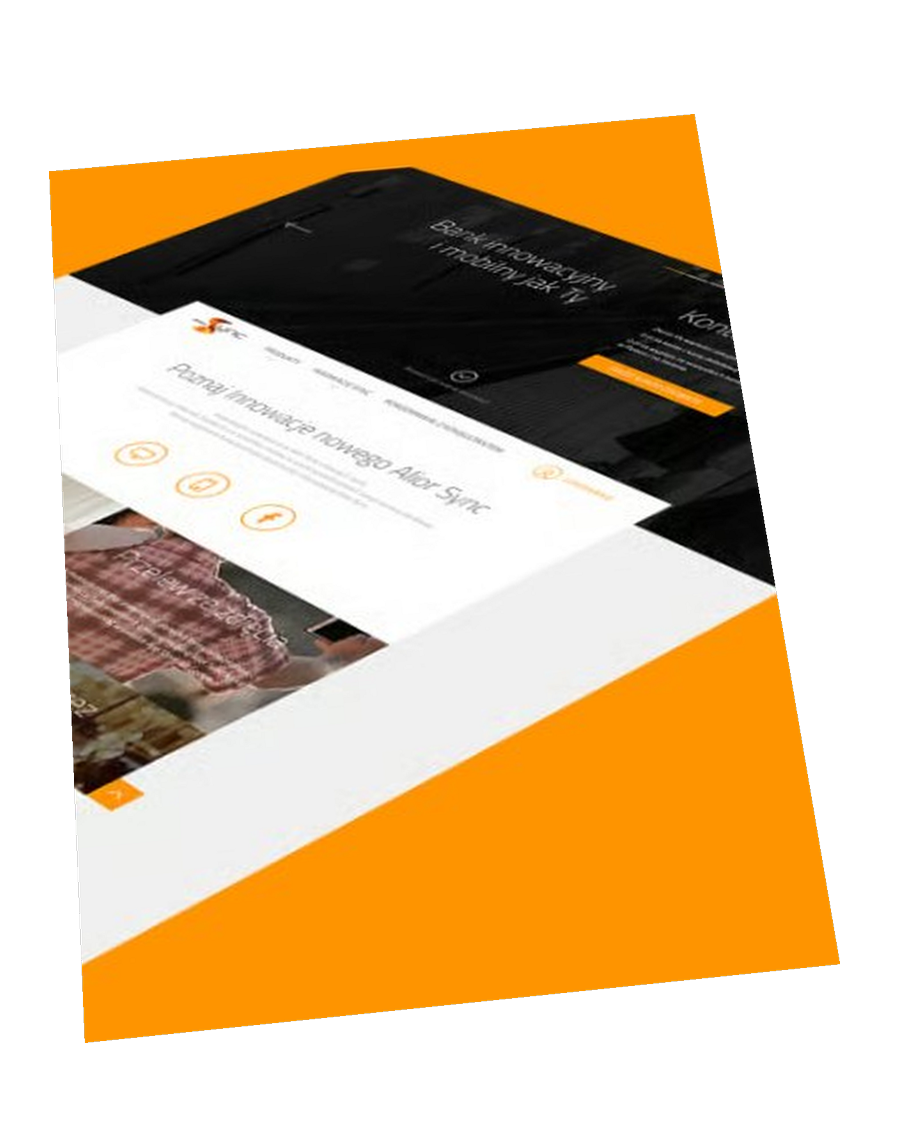
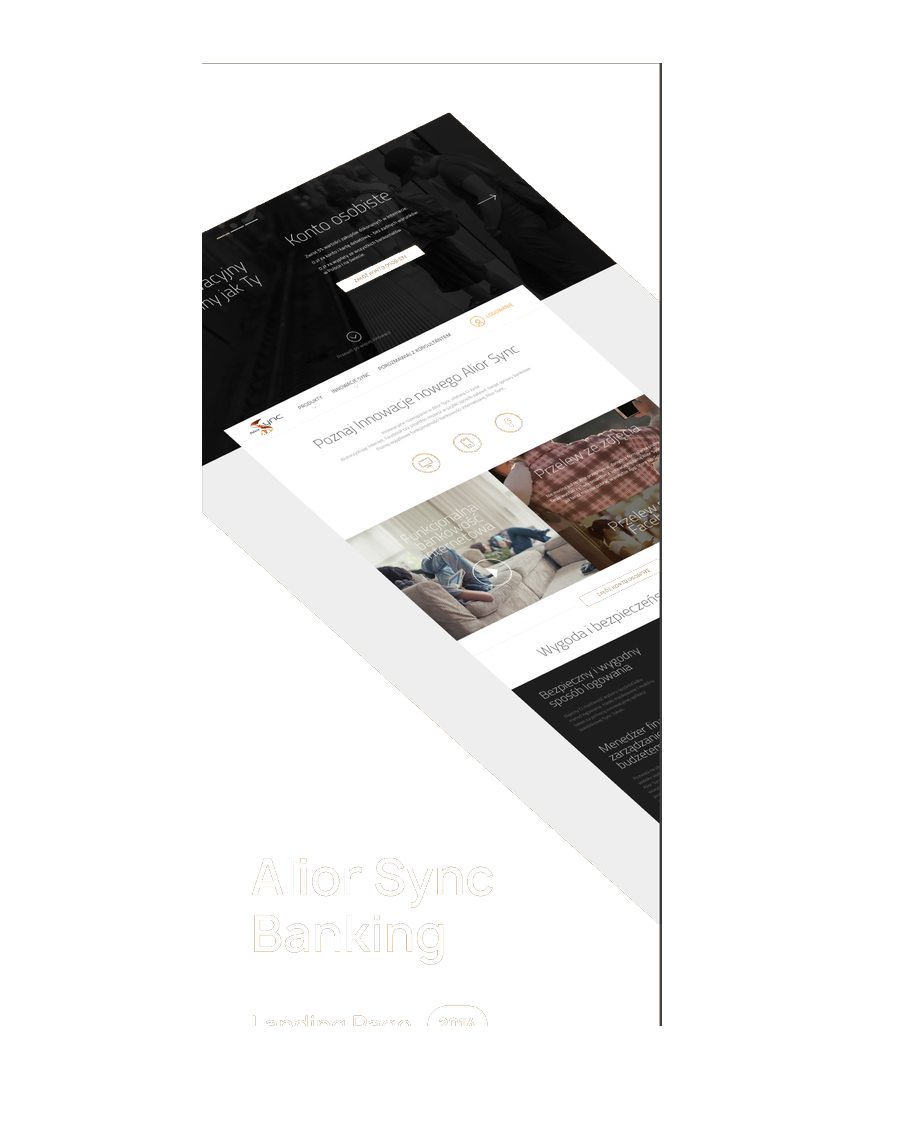
content(alior): use alior.png source for skew cover asset
Rebuild alior-skew from the new alior.png mockup and bump cache keys.

diff --git a/content/portfolio.js b/content/portfolio.js
@@ -1,1 +1,1 @@
-window.PORTFOLIO = {"projects":[{"id":"transimeksa","category":"desktop","title":"Transimeksa\nLogistic\nSolutions","label":"Desktop website","color":"#0f5d4f","image":"images/transimeksa.jpg"},{"id":"irshad","category":"desktop","title":"Irshad\nPetroleum","label":"Desktop website","color":"#1f4e88","image":"images/irshad.jpg"},{"id":"dynamite","category":"desktop","title":"Dynamite\nStudio","label":"Desktop website","color":"#ec413a","image":"images/Sysdyne-NewOrder-skew.png","mediaVersion":"20251108f"},{"id":"alior","category":"desktop","title":"Alior\nSync\nBanking","label":"Landing Page","year":"2014","color":"#fe9400","image":"images/alior-skew.png","mediaVersion":"20251109a"},{"id":"utilimarc","category":"desktop","title":"Utilimarc\nTelematics","label":"SaaS Dashboard","color":"#566167","image":"images/utilimarc-skew.png","mediaVersion":"20251108g"},{"id":"hello","category":"desktop","title":"Hello","label":"Desktop Dashboard","color":"#b62b88","image":"images/hello.jpg"},{"id":"tallinder","category":"desktop","title":"Tallinder","label":"Desktop","color":"#222222","image":"images/tallinder.jpg"},{"id":"oticon","category":"mobile","title":"Oticon\nRemoteCare","label":"Mobile App","color":"#c2a88d","image":"images/oticon.jpg"},{"id":"ponto","category":"mobile","title":"Ponto Trial\nCampanion","label":"Mobile App","color":"#6a6a68","image":"images/ponto.jpg"},{"id":"hearing-fitness","category":"mobile","title":"Hearing\nFitness","label":"Tablet App","color":"#1e2428","image":"images/hearing-fitness.jpg"},{"id":"bahs","category":"mobile","title":"BAHS App","label":"Mobile App","color":"#f07228","image":"images/bahs.jpg"},{"id":"sysdyne-illustrations","category":"motion","title":"Sysdyne\nIllustrations","label":"Motion","color":"#e5642c","image":"images/sysdyne-illustrations.png","mediaVersion":"20251108d"}]};
+window.PORTFOLIO = {"projects":[{"id":"transimeksa","category":"desktop","title":"Transimeksa\nLogistic\nSolutions","label":"Desktop website","color":"#0f5d4f","image":"images/transimeksa.jpg"},{"id":"irshad","category":"desktop","title":"Irshad\nPetroleum","label":"Desktop website","color":"#1f4e88","image":"images/irshad.jpg"},{"id":"dynamite","category":"desktop","title":"Dynamite\nStudio","label":"Desktop website","color":"#ec413a","image":"images/Sysdyne-NewOrder-skew.png","mediaVersion":"20251108f"},{"id":"alior","category":"desktop","title":"Alior\nSync\nBanking","label":"Landing Page","year":"2014","color":"#fe9400","image":"images/alior-skew.png","mediaVersion":"20251109c"},{"id":"utilimarc","category":"desktop","title":"Utilimarc\nTelematics","label":"SaaS Dashboard","color":"#566167","image":"images/utilimarc-skew.png","mediaVersion":"20251108g"},{"id":"hello","category":"desktop","title":"Hello","label":"Desktop Dashboard","color":"#b62b88","image":"images/hello.jpg"},{"id":"tallinder","category":"desktop","title":"Tallinder","label":"Desktop","color":"#222222","image":"images/tallinder.jpg"},{"id":"oticon","category":"mobile","title":"Oticon\nRemoteCare","label":"Mobile App","color":"#c2a88d","image":"images/oticon.jpg"},{"id":"ponto","category":"mobile","title":"Ponto Trial\nCampanion","label":"Mobile App","color":"#6a6a68","image":"images/ponto.jpg"},{"id":"hearing-fitness","category":"mobile","title":"Hearing\nFitness","label":"Tablet App","color":"#1e2428","image":"images/hearing-fitness.jpg"},{"id":"bahs","category":"mobile","title":"BAHS App","label":"Mobile App","color":"#f07228","image":"images/bahs.jpg"},{"id":"sysdyne-illustrations","category":"motion","title":"Sysdyne\nIllustrations","label":"Motion","color":"#e5642c","image":"images/sysdyne-illustrations.png","mediaVersion":"20251108d"}]};

diff --git a/portfolio.html b/portfolio.html
@@ -9,7 +9,7 @@
     <link rel="preconnect" href="https://fonts.googleapis.com" />
     <link rel="preconnect" href="https://fonts.gstatic.com" crossorigin />
     <link href="https://fonts.googleapis.com/css2?family=Manrope:wght@200;500;600;700&display=swap" rel="stylesheet" />
-    <link rel="stylesheet" href="css/site.css?v=20251109b" />
+    <link rel="stylesheet" href="css/site.css?v=20251109c" />
   </head>
   <body>
     <div class="shell shell-viewport portfolio-page">
@@ -54,8 +54,8 @@
         </nav>
       </div>
     </div>
-    <script src="content/portfolio.js?v=20251109b"></script>
-    <script src="js/portfolio.js?v=20251109b"></script>
+    <script src="content/portfolio.js?v=20251109c"></script>
+    <script src="js/portfolio.js?v=20251109c"></script>
     <script src="js/keyboard.js?v=20251108m"></script>
     <script src="js/close.js"></script>
   </body>
